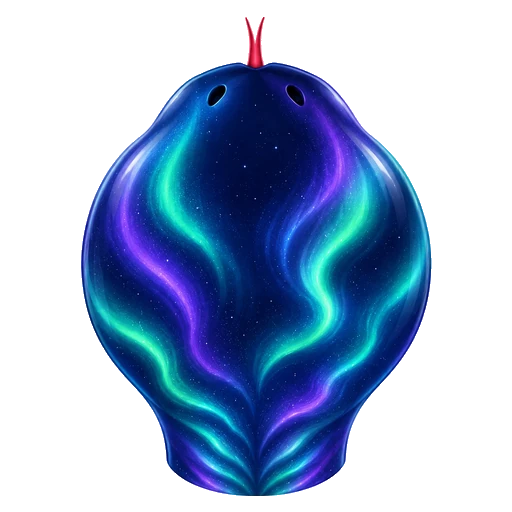
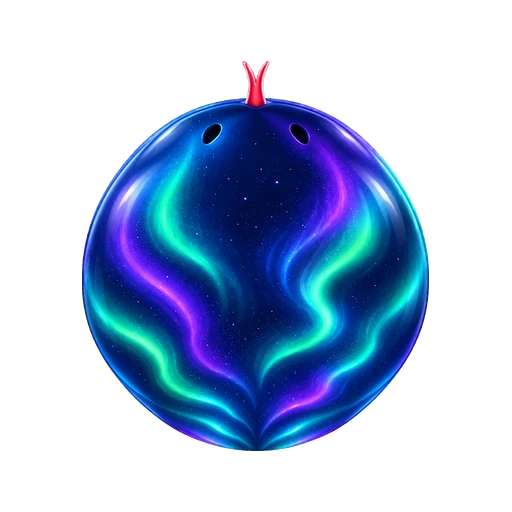
Refine modern skin proportions and tail fit

Changed region(s): [[0.1562, 0.0312, 0.8438, 0.9688], [0.4688, 0.375, 0.5, 0.4062]]

diff --git a/index.html b/index.html
@@ -2591,7 +2591,7 @@ const MODERN_BASIC_ASSETS=Object.freeze({
   regnbage:{headAsset:'skins/modern-rainbow-head-base.webp',bodyAsset:'skins/modern-rainbow-body-straight.webp',tailAsset:'skins/modern-rainbow-tail.webp',assetHueCycle:true},
   prismagodis:{headAsset:'skins/modern-prism-candy-head-base.webp',bodyAsset:'skins/modern-prism-candy-body-straight.webp',tailAsset:'skins/modern-prism-candy-tail.webp',prismShimmer:true,assetAlternateMirror:true,assetShadowBlur:10,assetBodyShadowBlur:7},
   guld:{headAsset:'skins/modern-gold-head-base.webp',bodyAsset:'skins/modern-gold-body-straight.webp',tailAsset:'skins/modern-gold-tail.webp'},
-  kunglig:{headAsset:'skins/modern-royal-head-base.webp',bodyAsset:'skins/modern-royal-body-straight.webp',tailAsset:'skins/modern-royal-tail.webp',royalShimmer:true,assetAlternateMirror:true,assetShadowBlur:8,assetBodyShadowBlur:5},
+  kunglig:{headAsset:'skins/modern-royal-head-base.webp',bodyAsset:'skins/modern-royal-body-straight.webp',tailAsset:'skins/modern-royal-tail.webp',headAssetScale:1.5,royalShimmer:true,assetAlternateMirror:true,assetShadowBlur:8,assetBodyShadowBlur:5},
   jordgubbe:{headAsset:'skins/modern-strawberry-head-base.webp',bodyAsset:'skins/modern-strawberry-body-straight.webp',tailAsset:'skins/modern-strawberry-tail.webp'},
   vattenmelon:{headAsset:'skins/modern-watermelon-head-base.webp',bodyAsset:'skins/modern-watermelon-body-straight.webp',tailAsset:'skins/modern-watermelon-tail.webp'},
   fotboll:{headAsset:'skins/modern-football-head-base.webp',bodyAsset:'skins/modern-football-body-straight.webp',tailAsset:'skins/modern-football-tail.webp'},
@@ -2599,15 +2599,15 @@ const MODERN_BASIC_ASSETS=Object.freeze({
   galax:{headAsset:'skins/modern-galaxy-head-base.webp',bodyAsset:'skins/modern-galaxy-body-straight.webp',tailAsset:'skins/modern-galaxy-tail.webp',galaxyTwinkles:true,assetAlternateMirror:true,assetShadowBlur:8,assetBodyShadowBlur:5},
   obsidian:{headAsset:'skins/modern-obsidian-head-base.webp',bodyAsset:'skins/modern-obsidian-body-straight.webp',tailAsset:'skins/modern-obsidian-tail.webp',magmaPulse:true,assetShadowBlur:8,assetBodyShadowBlur:5},
   clockwork:{headAsset:'skins/modern-clockwork-head-base.webp',bodyAsset:'skins/modern-clockwork-body-straight.webp',tailAsset:'skins/modern-clockwork-tail.webp',clockworkPulse:true,assetAlternateMirror:true,assetShadowBlur:8,assetBodyShadowBlur:5,tailAssetOffset:1.05,tailWagAmplitude:.035,tailWagPeriod:185,tailAssetPivotFromTop:.085},
-  drake:{headAsset:'skins/modern-dragon-head-base.webp',bodyAsset:'skins/modern-dragon-body-straight.webp',tailAsset:'skins/modern-dragon-tail.webp',headAssetScale:1.75,eyesAssetScale:.74,eyesAssetOffsetY:-.035,bodyAssetRotation:Math.PI/2,assetShadowBlur:8,assetBodyShadowBlur:4,tailAssetOffset:1.06,tailWagAmplitude:.085,tailWagPeriod:270,tailWagEnvelope:true,tailAssetPivotFromTop:.085},
-  aurora:{headAsset:'skins/modern-aurora-head-base.webp',bodyAsset:'skins/modern-aurora-body-straight.webp',tailAsset:'skins/modern-aurora-tail.webp',auroraFlow:true,assetAlternateMirror:true,assetShadowBlur:9,assetBodyShadowBlur:6},
+  drake:{headAsset:'skins/modern-dragon-head-base.webp?v=2',bodyAsset:'skins/modern-dragon-body-straight.webp',tailAsset:'skins/modern-dragon-tail.webp',headAssetScale:1.62,eyesAssetScale:.74,eyesAssetOffsetY:-.035,bodyAssetRotation:Math.PI/2,assetShadowBlur:8,assetBodyShadowBlur:4,tailAssetOffset:1.06,tailWagAmplitude:.085,tailWagPeriod:270,tailWagEnvelope:true,tailAssetPivotFromTop:.085},
+  aurora:{headAsset:'skins/modern-aurora-head-base.webp?v=2',bodyAsset:'skins/modern-aurora-body-straight.webp',tailAsset:'skins/modern-aurora-tail.webp',headAssetScale:1.6,auroraFlow:true,assetAlternateMirror:true,assetShadowBlur:9,assetBodyShadowBlur:6},
   ghost:{headAsset:'skins/modern-ghost-head-base.webp',bodyAsset:'skins/modern-ghost-body-straight.webp',tailAsset:'skins/modern-ghost-tail.webp',ghostEcho:true,assetShadowBlur:9,assetBodyShadowBlur:6},
   lava:{headAsset:'skins/modern-lava-head-base.webp',bodyAsset:'skins/modern-lava-body-straight.webp',tailAsset:'skins/modern-lava-tail.webp',magmaPulse:true,assetAlternateMirror:true,assetShadowBlur:10,assetBodyShadowBlur:7},
-  plasma:{headAsset:'skins/modern-plasma-head-base.webp',bodyAsset:'skins/modern-plasma-body-straight.webp',tailAsset:'skins/modern-plasma-tail.webp',plasmaPulse:true,assetAlternateMirror:true,assetShadowBlur:11,assetBodyShadowBlur:7},
-  radioaktiv:{headAsset:'skins/modern-radioactive-head-base.webp',bodyAsset:'skins/modern-radioactive-body-straight.webp',tailAsset:'skins/modern-radioactive-tail.webp',radioactivePulse:true,assetAlternateMirror:true,assetShadowBlur:12,assetBodyShadowBlur:8},
+  plasma:{headAsset:'skins/modern-plasma-head-base.webp?v=2',bodyAsset:'skins/modern-plasma-body-straight.webp',tailAsset:'skins/modern-plasma-tail.webp',headAssetScale:1.6,plasmaPulse:true,assetAlternateMirror:true,assetShadowBlur:11,assetBodyShadowBlur:7},
+  radioaktiv:{headAsset:'skins/modern-radioactive-head-base.webp?v=2',bodyAsset:'skins/modern-radioactive-body-straight.webp',tailAsset:'skins/modern-radioactive-tail.webp',headAssetScale:1.6,radioactivePulse:true,assetAlternateMirror:true,assetShadowBlur:12,assetBodyShadowBlur:8},
   eld:{headAsset:'skins/modern-blood-moon-head-base.webp',bodyAsset:'skins/modern-blood-moon-body-straight.webp',tailAsset:'skins/modern-blood-moon-tail.webp',bloodMoonPulse:true,assetAlternateMirror:true,assetShadowBlur:9,assetBodyShadowBlur:6,tailAssetOffset:1.05,tailWagAmplitude:.07,tailWagPeriod:340,tailWagEnvelope:true,tailAssetPivotFromTop:.08},
   stjarnhimmel:{headAsset:'skins/modern-starry-sky-head-base.webp',bodyAsset:'skins/modern-starry-sky-body-straight.webp',tailAsset:'skins/modern-starry-sky-tail.webp',starryTwinkles:true,assetAlternateMirror:true,assetShadowBlur:8,assetBodyShadowBlur:5},
-  tiger:{headAsset:'skins/modern-tiger-head-base.webp',bodyAsset:'skins/modern-tiger-body-straight.webp',tailAsset:'skins/modern-tiger-tail.webp',headAssetScale:1.52,eyesAssetScale:.9,eyesAssetOffsetY:.025,assetAlternateMirror:true,assetShadowBlur:6,assetBodyShadowBlur:4,tailAssetOffset:1.06,tailWagAmplitude:.15,tailWagPeriod:245,tailWagEnvelope:true,tailAssetPivotFromTop:.1},
+  tiger:{headAsset:'skins/modern-tiger-head-base.webp?v=2',bodyAsset:'skins/modern-tiger-body-straight.webp',tailAsset:'skins/modern-tiger-tail.webp?v=2',headAssetScale:1.52,eyesAssetScale:.9,eyesAssetOffsetY:.025,assetAlternateMirror:true,assetShadowBlur:6,assetBodyShadowBlur:4,tailAssetOffset:1.02,tailWagAmplitude:.08,tailWagPeriod:245,tailWagEnvelope:true,tailAssetPivotFromTop:.095},
   hav:{headAsset:'skins/modern-ocean-head-base.webp',bodyAsset:'skins/modern-ocean-body-straight.webp',tailAsset:'skins/modern-ocean-tail.webp',oceanFlow:true,assetAlternateMirror:true,assetShadowBlur:9,assetBodyShadowBlur:6}
 });
 const MODERN_EYES_OPEN_ASSET='skins/modern-basic-eyes-open.webp';

diff --git a/CHANGELOG.md b/CHANGELOG.md
@@ -2,6 +2,22 @@
 
 ## 2026-09-11
 
+### Kvalitetskorrigering av moderna skins
+- `skins/modern-aurora-head-base.webp`, `skins/modern-plasma-head-base.webp` och `skins/modern-radioactive-head-base.webp`
+  - återställda till en bred, enkel och rundad huvudform som ligger nära originalsnoken
+  - behåller respektive färg-, material- och ljuseffekt
+- `skins/modern-tiger-head-base.webp` och `skins/modern-tiger-tail.webp`
+  - öronen flyttade bakåt bakom spelögonen medan den omtyckta tigerkroppen lämnats helt orörd
+  - svansen gjord smalare med samma päls och V-randning som kroppen samt tätare fäste utan synlig glipa
+- `skins/modern-dragon-head-base.webp`
+  - hornen flyttade bakåt, gjorda något mindre och placerade bakom spelögonen
+- `index.html`
+  - minskat Kunglig-huvudets renderingsstorlek
+  - finjusterat storlek och cacheversion för korrigerade huvuden samt tigersvansens fäste och vickning
+  - verifierat Tiger-, Drake- och Radioaktiv-kropparnas rotation både rakt och genom en 90-graderssväng
+- `AGENTS.md`
+  - förtydligat regler för huvudform, öron/horn, rundade kroppar, mönsterrotation och svansproportioner
+
 ### Korrigerat perspektiv för moderna banbakgrunder
 - `assets/kristallgrotta.webp`, `assets/soltemplet.webp`, `assets/fotbollsplan.webp`, `assets/hockeyrink.webp`, `assets/korallrev.webp`, `assets/molnstaden.webp`, `assets/vulkanon.webp` och `assets/magiska-biblioteket.webp`
   - omgjorda till strikt ortografisk 90-gradersvy uppifrån så perspektivet stämmer med snoken

diff --git a/AGENTS.md b/AGENTS.md
@@ -14,7 +14,11 @@
 ## Moderna snokskins
 
 - Runtimebilder ska vara WebP med riktig alfakanal; ingen inbakad vit, svart eller schackrutig bakgrund.
+- Utgå från den klassiska snokens breda, enkla och rundade huvudform. Temat ska främst uttryckas med färg, material, mönster och mindre utsmyckningar; en specialsilhuett får bara användas när den fortfarande passar kroppens proportioner i spelet.
+- Öron, horn och liknande utsmyckningar ska sitta bakom spelögonens position, mot huvudets bakre del, och får inte göra huvudet oproportionerligt stort.
 - Kroppsdelar ska vara tydligt rundade och organiska, inte kvadratiska.
+- Riktningskänsliga mönster ska testas både horisontellt, vertikalt och i en sväng. Rotationen ska följa snokens riktning utan att mönstret ser vridet eller hoppigt ut.
 - Lägg inte en rad stora runda cirklar/prickar tvärs över mitten av kroppsdelarna.
 - Svansens plana fästkant ska möta sista kroppsdelen utan synlig glipa eller onödigt stor överlappning.
+- Svansens fäste ska normalt vara tydligt smalare än kroppsdelen och svansen ska använda samma material, färger och mönsterspråk som kroppen.
 - Kroppens gradvisa transparens ska även omfatta svansen.
